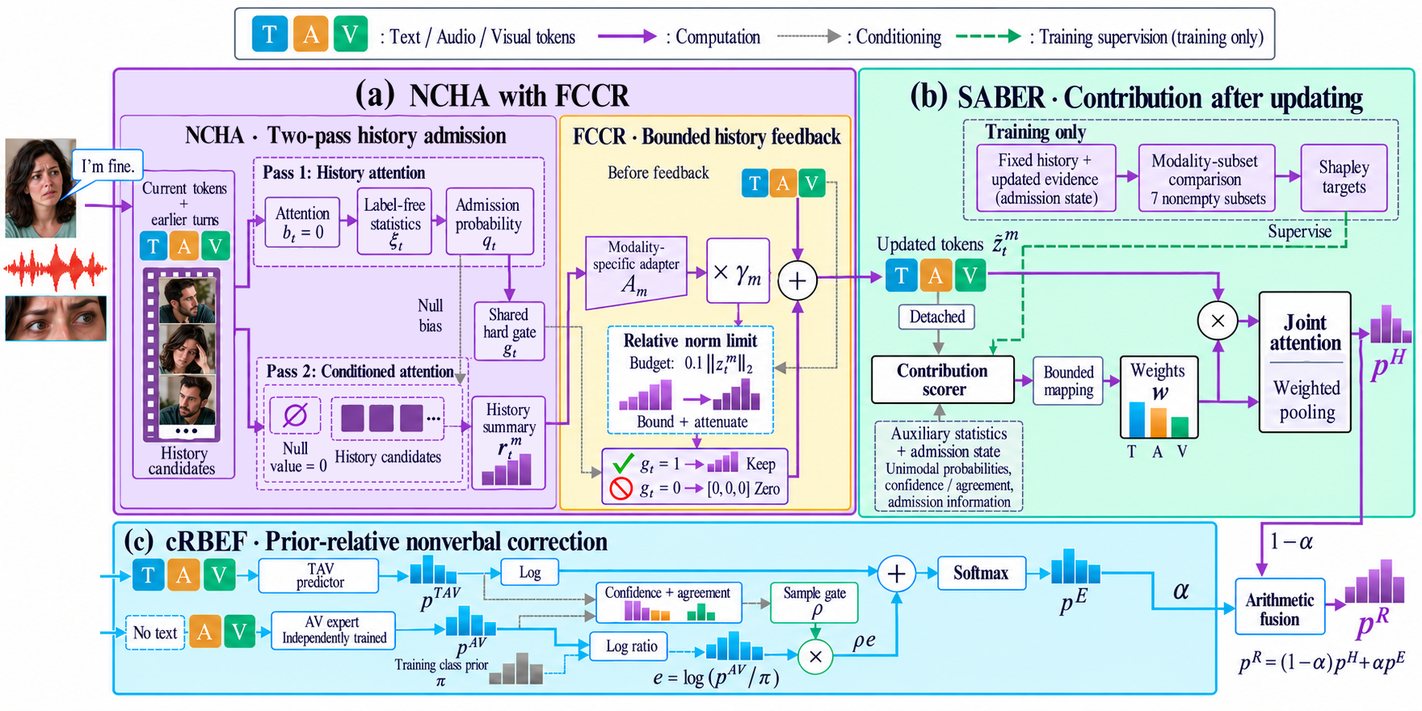
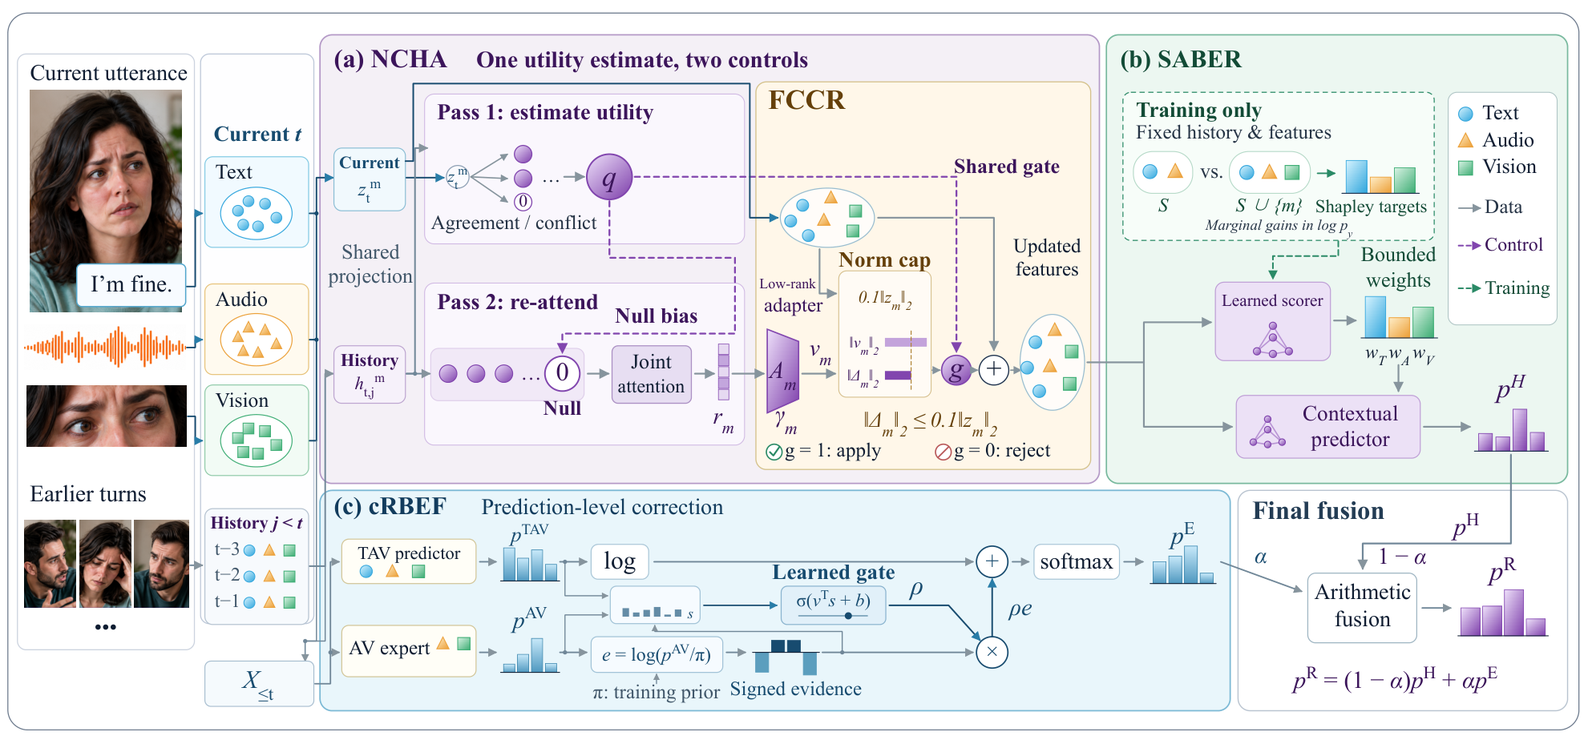
Align HMBR documentation and presets with the manuscript and fix audiovisual masking

diff --git a/recomer/correction.py b/recomer/correction.py
@@ -26,6 +26,15 @@ def correction_statistics(tav: Tensor, av: Tensor, prior: Tensor, eps: float = 1
                         -(tav * tav.clamp_min(eps).log()).sum(-1)), dim=-1)
 
 
+def _mask_gate(gate: Tensor, av_available: Tensor | None) -> Tensor:
+    if av_available is None:
+        return gate
+    available = torch.as_tensor(av_available, device=gate.device).reshape(-1)
+    if available.shape != gate.shape or ((available != 0) & (available != 1)).any():
+        raise ValueError("av_available must contain one binary value per utterance")
+    return gate * available.to(gate.dtype)
+
+
 def correct_predictions(tav_probabilities: Tensor, av_probabilities: Tensor,
                         class_prior: Tensor, gate: Tensor,
                         av_available: Tensor | None = None, eps: float = 1e-9) -> Tensor:
@@ -36,14 +45,10 @@ def correct_predictions(tav_probabilities: Tensor, av_probabilities: Tensor,
     """
     tav, av = tav_probabilities, av_probabilities
     correction_statistics(tav, av, class_prior, eps)
-    gate = torch.as_tensor(gate, device=tav.device, dtype=tav.dtype).reshape(-1, 1)
-    if gate.shape != (len(tav), 1) or not torch.isfinite(gate).all() or ((gate < 0) | (gate > 1)).any():
+    gate = torch.as_tensor(gate, device=tav.device, dtype=tav.dtype).reshape(-1)
+    if gate.shape != (len(tav),) or not torch.isfinite(gate).all() or ((gate < 0) | (gate > 1)).any():
         raise ValueError("gate must contain one value in [0,1] per utterance")
-    if av_available is not None:
-        availability = torch.as_tensor(av_available, device=tav.device).reshape(-1, 1)
-        if availability.shape != gate.shape or ((availability != 0) & (availability != 1)).any():
-            raise ValueError("av_available must be a binary [B] mask")
-        gate = gate * availability.to(tav.dtype)
+    gate = _mask_gate(gate, av_available)[:, None]
     evidence = (av + eps).log() - (class_prior + eps).log()
     corrected = ((tav + eps).log() + gate * evidence).softmax(-1)
     return torch.where(gate == 0, tav, corrected)
@@ -61,10 +66,8 @@ class PriorRelativeCorrection(nn.Module):
 
     def forward(self, tav: Tensor, av: Tensor, av_available: Tensor | None = None) -> dict[str, Tensor]:
         statistics = correction_statistics(tav, av, self.class_prior)
-        rho = self.gate(statistics).sigmoid().squeeze(-1)
-        if av_available is not None:
-            rho = rho * av_available.to(device=rho.device, dtype=rho.dtype)
-        return {"probabilities": correct_predictions(tav, av, self.class_prior, rho, av_available),
+        rho = _mask_gate(self.gate(statistics).sigmoid().squeeze(-1), av_available)
+        return {"probabilities": correct_predictions(tav, av, self.class_prior, rho),
                 "gate": rho, "statistics": statistics}
 
 

diff --git a/tests/recomer/test_method.py b/tests/recomer/test_method.py
@@ -168,9 +168,15 @@ def test_prior_relative_correction_and_arithmetic_fusion():
     torch.testing.assert_close(correct_predictions(tav, av, prior, gate, torch.zeros(2)), tav, rtol=0, atol=0)
     torch.testing.assert_close(correct_predictions(tav, prior.expand_as(tav), prior, gate), tav)
     torch.testing.assert_close(arithmetic_fusion(tav, actual, .3), .7 * tav + .3 * actual)
-    learned = PriorRelativeCorrection(prior)(tav, av, torch.tensor([1, 0]))
+    corrector = PriorRelativeCorrection(prior)
+    available = torch.tensor([1, 0])
+    learned = corrector(tav, av, available)
     assert learned["statistics"].shape == (2, 6)
     assert learned["gate"][1] == 0
+    column_mask = corrector(tav, av, available[:, None])
+    torch.testing.assert_close(column_mask["gate"], learned["gate"])
+    torch.testing.assert_close(column_mask["probabilities"], learned["probabilities"])
+    torch.testing.assert_close(column_mask["probabilities"][1], tav[1], rtol=0, atol=0)
 
 
 def test_output_composition_matches_formulas():

diff --git a/scripts/report_paper_results.py b/scripts/report_paper_results.py
@@ -6,14 +6,14 @@ import json
 def main():
     path = Path(__file__).resolve().parents[1] / "paper" / "results.json"
     data = json.loads(path.read_text(encoding="utf-8"))
-    print("ReCoMER | paper-reported performance (%)")
+    print("HMBR | paper-reported WF1 (%)")
     for row in data["main_results"]:
         values = ", ".join(f"{metric.upper()} {value:.2f}%" for metric, value in row["scores"].items())
         print(f"{row['dataset']}: {values} | {row['statistic']}")
-    print("\nSelected matched module gains (percentage-scale score differences)")
+    print("\nM3ED module ablations (Table 4, WF1 percentage points)")
     for row in data["mechanism_results"]:
         if row["component"] == "whole module":
-            print(f"{row['module']}: +{row['gain']:.3f}%")
+            print(f"{row['module']}: +{row['gain']:.3f} pp")
 
 
 if __name__ == "__main__":

diff --git a/recomer/__init__.py b/recomer/__init__.py
@@ -1,4 +1,4 @@
-"""ReCoMER: history admission, bounded feedback and contribution routing."""
+"""HMBR reference implementation for multimodal conversational emotion recognition."""
 from .config import ReCoMERConfig
 from .model import MODALITIES, FrozenContext, ReCoMERContextModel, limit_relative_norm
 from .shapley import exact_shapley, standardize_shapley, bounded_routing_weights

diff --git a/recomer/model.py b/recomer/model.py
@@ -1,4 +1,4 @@
-"""ReCoMER contextual reference model: NCHA -> FCCR -> SABER."""
+"""HMBR contextual reference model with NCHA, FCCR, and SABER."""
 from dataclasses import dataclass
 from collections.abc import Mapping
 import math

diff --git a/recomer/config.py b/recomer/config.py
@@ -1,4 +1,4 @@
-"""Configuration for the ReCoMER method reference implementation."""
+"""Configuration for the HMBR reference implementation."""
 from dataclasses import asdict, dataclass
 from typing import Any
 

diff --git a/scripts/demo_recomer.py b/scripts/demo_recomer.py
@@ -1,4 +1,4 @@
-"""Exercise ReCoMER with synthetic inputs; this is not a benchmark run."""
+"""Run the HMBR reference model on synthetic inputs."""
 from pathlib import Path
 import argparse
 import json

diff --git a/README.md b/README.md
@@ -1,33 +1,35 @@
-# ReCoMER
+# HMBR
 
-**Reliability and Context Modeling to Mitigate Biases in Multimodal Conversational Emotion Recognition**
+**Historical and Modal Bias Reassessment Mitigation for Multimodal Conversational Emotion Recognition**
 
-[Paper](paper/ReCoMER.pdf) · [中文说明](README.zh-CN.md) · [Method & data interface](paper/IMPLEMENTATION.md) · [Reported results](paper/results.json)
+[HMBR paper (PDF)](paper/ReCoMER.pdf) · [中文说明](README.zh-CN.md) · [Implementation and data interface](paper/IMPLEMENTATION.md) · [Reported results](paper/results.json)
 
-ReCoMER coordinates **which history to admit**, **how strongly it updates current evidence**, and **how modality contributions are estimated after that update**. A complementary audio-visual prediction path supplies prior-relative nonverbal evidence at the decision level.
+HMBR predicts the emotion of a conversational utterance from text, audio and visual features. It estimates whether earlier turns help interpret the current utterance, limits how much they can change its representation, and then weights each modality by its estimated contribution. A separate audiovisual expert refines the prediction when nonverbal cues provide complementary evidence.
 
-![ReCoMER architecture](paper/figures/overview.png)
+![HMBR architecture on M3ED, Figure 2 of the paper](paper/figures/overview.png)
 
-## Paper-reported performance
+## Results
 
-| Dataset | WF1 (%) | ACC (%) | Summary |
-|---|---:|---:|---|
-| M3ED | **62.07** | — | +7.02% over the listed MF-EDM result |
-| IEMOCAP | **78.53** | — | Three-run mean; sample SD 0.04% |
-| EmotionTalk | **72.03** | **72.52** | ACC +1.29% over the listed LMF result |
+Tables 1–3 report support-weighted F1 (WF1) on three datasets.
 
-Performance gains denote differences between percentage-scale scores. The results follow the evaluation protocols in the linked manuscript; the IEMOCAP figure is a mean, while M3ED and EmotionTalk report individual runs. EmotionTalk WF1 is labeled separately from the literature's source F1 metric.
+| Dataset | HMBR WF1 (%) | Evaluation |
+|---|---:|---|
+| M3ED | **62.07** | Single run, official TV-series split |
+| IEMOCAP | **78.53** | Mean of three runs, Session 5 held out |
+| EmotionTalk | **72.03** | Single run, speaker-independent split |
 
-## Method highlights
+## Method
 
-- **NCHA — conditional history admission.** A preliminary history reading informs the second round of null-candidate competition and a shared admission decision.
-- **FCCR — bounded historical feedback.** Modality-specific residual adapters refine current representations within a relative norm budget.
-- **SABER — contribution routing after updating.** Fixed-state Shapley supervision connects updated evidence to bounded modality weights. Inference uses a single scorer pass.
-- **cRBEF — prior-relative nonverbal correction.** A separately trained AV expert supplies class-wise evidence, an utterance-level gate controls correction strength, and arithmetic fusion combines complete predictions.
+- **NCHA** estimates whether earlier turns are useful. This estimate controls competition with a no-history option and a gate that admits or rejects historical feedback.
+- **FCCR** learns a correction for each modality and bounds its norm relative to the current representation.
+- **SABER** estimates each modality’s contribution after the history update. A scorer learns from Shapley targets during training and predicts bounded routing weights at inference.
+- **cRBEF** compares an audiovisual expert’s predictions with the training class prior. A gate controls the strength of this correction before the expert and contextual predictions are combined.
 
-The manuscript's selected matched component gains are **NCHA +2.913%**, **FCCR +3.290%**, **SABER +1.902%**, and **cRBEF +7.478%**. Each describes its own matched comparison; these effects are not added together. All 18 mechanism results and their interpretation are available in [the result record](paper/results.json) and the paper.
+On M3ED, Table 4 reports WF1 gains of 2.913 percentage points for NCHA, 3.290 for FCCR, 1.902 for SABER and 7.478 for cRBEF. Tables 5–8 report 14 comparisons of their internal mechanisms. Section 4.3 describes the variants used for each comparison. [Ablation results](paper/results.json)
 
 ## Quick start
+
+Use Python 3.10 or later. The GitHub repository retains its original name, `ReCoMER`. Import the reference implementation as `recomer`.
 
 ```bash
 git clone https://github.com/China-hanwudi/ReCoMER.git
@@ -38,39 +40,37 @@ python -m pytest tests/recomer -q
 python scripts/report_paper_results.py
 ```
 
-The demo uses synthetic feature tensors to exercise the full prediction composition on CPU. The Python package is a readable reference implementation of the manuscript's core mechanisms. The performance table above records the manuscript experiments, rather than a score produced by the synthetic demo.
+The demo runs the contextual predictor and audiovisual correction on synthetic feature tensors on CPU. The results script prints the values recorded from the paper.
+
+For M3ED features, the contextual predictor accepts text, audio and visual vectors of 2,560, 2,048 and 342 dimensions, respectively. This example runs one forward pass with synthetic features for the current utterance and three earlier turns.
 
 ```python
+import torch
 from recomer import ReCoMERConfig, ReCoMERContextModel
 
-config = ReCoMERConfig(input_dims=(768, 1024, 342), num_classes=7)
-model = ReCoMERContextModel(config)
-output = model(current, history, modality_mask=present, history_mask=valid_history)
-probabilities = output["probabilities"]
+config = ReCoMERConfig(input_dims=(2560, 2048, 342), num_classes=7, dropout=0.25)
+model = ReCoMERContextModel(config).eval()
+dims = dict(zip(("text", "audio", "vision"), config.input_dims))
+current = {name: torch.randn(1, dim) for name, dim in dims.items()}
+history = {name: torch.randn(1, 3, dim) for name, dim in dims.items()}
+with torch.no_grad():
+    context_probabilities = model(current, history)["probabilities"]
 ```
 
-Feature dimensions should match your own packed features. See [the input schema](paper/IMPLEMENTATION.md) for masks, speaker relations, training objectives, frozen prediction composition, and dataset presets.
+The [input schema](paper/IMPLEMENTATION.md) describes tensor shapes, masks, speaker relations, training objectives and how to combine the contextual output with the expert predictions.
 
 ## Repository layout
 
-```text
-recomer/                    PyTorch modules and prediction composition
-tests/recomer/              CPU mechanism tests
-scripts/demo_recomer.py     Synthetic forward and correction example
-scripts/report_paper_results.py
-configs/dataset_presets.json
-paper/ReCoMER.pdf           Manuscript supplied for this release
-paper/figures/overview.png  Original architecture figure extracted from the paper
-paper/results.json         Paper-reported aggregate results
-paper/IMPLEMENTATION.md     Interfaces and evaluation protocols
-```
+| Path | Contents |
+|---|---|
+| [recomer/](recomer/) | PyTorch reference implementation |
+| [configs/dataset_presets.json](configs/dataset_presets.json) | Dataset-specific model settings |
+| [scripts/demo_recomer.py](scripts/demo_recomer.py) | Runnable synthetic example |
+| [tests/recomer/](tests/recomer/) | CPU tests for the model components |
+| [paper/](paper/) | HMBR manuscript, architecture figure, results and implementation notes |
 
-The existing TemporalN3 and `ReCoMER_paper_20261006/` directories remain available as earlier research versions. The current ReCoMER entry point is the package and manuscript linked above. Repository history and existing data remain intact.
-
-## Efficiency
-
-The manuscript reports **13.121M parameters** and **1.401 ms per utterance** on an RTX 5090. NCHA, FCCR, and SABER jointly add **0.086M parameters (0.66%)**. Timing uses the median of five post-warmup runs on eight development dialogues (187 utterances), including expert computation and excluding feature extraction, transfers, and model loading.
+Earlier research materials are available in [temporal_n3/](temporal_n3/) and [ReCoMER_paper_20261006/](ReCoMER_paper_20261006/).
 
 ## Citation and license
 
-The manuscript title and BibTeX entry are in [CITATION.bib](CITATION.bib). Repository-owned code is distributed under the existing [MIT license](LICENSE). Obtain datasets and pretrained feature extractors from their original providers under their own terms.
+Use the [BibTeX entry](CITATION.bib) to cite the manuscript. Repository-owned code is distributed under the [MIT license](LICENSE). Datasets and pretrained feature extractors are available from their original providers under their respective terms.

diff --git a/paper/IMPLEMENTATION.md b/paper/IMPLEMENTATION.md
@@ -1,6 +1,6 @@
 # Method implementation and data interface
 
-This release pairs the manuscript with an inspectable PyTorch reference implementation of its core mechanisms. `paper/results.json` contains the manuscript's reported measurements. Model defaults are usable reference values; they are not a declaration of every hidden setting of an archived training run.
+The PyTorch package exposes HMBR's contextual predictor and prediction correction. The [manuscript](ReCoMER.pdf) describes the model and the [result record](results.json) lists the scores in Tables 1–8. The `recomer` package retains the original public API names.
 
 ## Inputs
 
@@ -13,7 +13,7 @@ This release pairs the manuscript with an inspectable PyTorch reference implemen
 - `relative_positions`: optional `[B, H]` positive distances to completed preceding utterances. Zero, future/nonpositive, and out-of-window positions are excluded.
 - `speaker_relations`: optional binary `[B, H]` relation indicators.
 
-Keep utterance identifiers and class order aligned across contextual, TAV, and AV prediction banks. Build history separately within each conversation, using only completed earlier turns. The dataset-specific mechanism paths appear in `configs/dataset_presets.json`; set feature dimensions from your own data.
+Keep utterance identifiers and class order aligned across contextual, TAV, and AV prediction banks. Build history separately within each conversation, using only completed earlier turns. The [dataset presets](../configs/dataset_presets.json) specify the contextual path for each benchmark. Set the three input dimensions to match the features you supply.
 
 ## Forward path
 
@@ -35,16 +35,22 @@ For M3ED, history enters through current-token feedback and routing acts at toke
 
 `PriorRelativeCorrection` consumes independent TAV and text-free AV probabilities and a training class prior. Its six-statistic gate scales the prior-relative AV log evidence. `arithmetic_fusion` then combines the corrected and contextual posteriors with the fixed `alpha` for that configuration. The sample gate `rho` and outer mixture `alpha` have different roles.
 
-`emotiontalk_output` additionally implements the manuscript's final temperature transformation and TAV-head combination. Pass the corresponding independent head posterior, using the reported temperature 3 and mixing coefficient 0.85.
+The reference implementation also provides `emotiontalk_output` for the earlier EmotionTalk configuration. It accepts the fused probabilities and an independent TAV-head posterior, with default temperature 3 and mixing coefficient 0.85. The [prior implementation notes](https://github.com/China-hanwudi/ReCoMER/blob/0d262831d7bb78bdea2307a2c7eefda89470c51c/paper/IMPLEMENTATION.md) document these settings.
 
 Training features, trained contextual/TAV/AV weights, frozen mappings, and fitted gates should be supplied as their own aligned experiment artifacts. The synthetic demo shows the interfaces with generated tensors; it does not substitute for those fitted artifacts.
 
-## Evaluation protocols
+## Reported experimental setup
 
-- **M3ED:** official television-source split; reported WF1 62.07.
-- **IEMOCAP:** Session 5 held out, happy and excited retained separately; reported WF1 78.53 is a three-run mean with sample SD 0.04.
-- **EmotionTalk:** G01/G12 for development and G03/G15 for testing; reported ACC 72.52 and WF1 72.03.
+All three datasets use up to three utterances that ended before the target began. The contextual predictor uses a 192-dimensional representation, two Transformer layers with six heads each, rank-32 feedback adapters, and a relative-norm budget of 0.1. The optimizer is AdamW with batch size 128 and weight decay 0.01.
 
-The manuscript records test-informed configuration exploration for M3ED and EmotionTalk. The reported mechanism rows are selected matched effects under row-specific conditions. For new model development, fit on training/development partitions and keep the final evaluation distinct.
+| Dataset | Evaluation split | Features and training settings reported in Section 4.1 | HMBR WF1 |
+| --- | --- | --- | --- |
+| M3ED | Official TV-series split | Qwen text (2,560), HuBERT audio (2,048), visual features (342). Up to 45 epochs, learning rate 0.00015, five warmup epochs, dropout 0.25. | 62.07% (one run) |
+| IEMOCAP | Session 5 held out, six classes with happy and excited kept separate | Up to 35 epochs, learning rate 0.0001, two warmup epochs, dropout 0.15. | 78.53% (mean of three runs, SD 0.04 percentage points) |
+| EmotionTalk | Seven-class multimodal labels, G01/G12 for validation and G03/G15 for testing | Frozen Qwen3-8B-AWQ text (4,096), Chinese HuBERT-base audio (768), CLIP ViT-L/14 vision (768). | 72.03% (one run) |
+
+WF1 is F1 weighted by class support. Table 4 gives module comparisons on M3ED. Tables 5–8 give mechanism comparisons within each module. Gains are absolute WF1 differences in percentage points. Section 4.3 reports the maximum observed gain for the three contextual modules and for each individual mechanism.
+
+The [prior experiment record](https://github.com/China-hanwudi/ReCoMER/blob/0d262831d7bb78bdea2307a2c7eefda89470c51c/paper/IMPLEMENTATION.md) documents test-informed configuration exploration for the M3ED and EmotionTalk runs that reported the same scores. The [archived measurements](https://github.com/China-hanwudi/ReCoMER/blob/0d262831d7bb78bdea2307a2c7eefda89470c51c/paper/results.json) include the earlier accuracy, timing and full-configuration removal results.
 
 The MIT license applies to repository-owned code. Download datasets, source features, and pretrained extractors from their original providers. Keep their licenses, class ordering, splits, and artifact provenance with each run.

diff --git a/README.zh-CN.md b/README.zh-CN.md
@@ -1,33 +1,35 @@
-# ReCoMER
+# HMBR
 
-**通过可靠性与上下文建模缓解多模态对话情感识别中的偏差**
+**Historical and Modal Bias Reassessment Mitigation for Multimodal Conversational Emotion Recognition**
 
-[English](README.md) · [论文 PDF](paper/ReCoMER.pdf) · [方法与输入接口](paper/IMPLEMENTATION.md) · [论文结果](paper/results.json)
+[English](README.md) · [HMBR 论文（PDF）](paper/ReCoMER.pdf) · [实现与数据接口](paper/IMPLEMENTATION.md) · [实验结果](paper/results.json)
 
-ReCoMER 将历史准入、有界历史反馈与更新后的模态贡献估计相衔接，并通过独立的音视频预测路径提供先验相对的非语言证据。
+HMBR 根据文本、音频和视觉特征识别当前话语的情感。模型先判断先前话轮能否帮助理解当前话语，限制历史信息对当前表示的影响，再根据各模态在当前语境中的贡献分配权重。独立的音视频专家利用非语言线索进一步校正预测。
 
-![ReCoMER 方法框架](paper/figures/overview.png)
+![论文图 2，HMBR 在 M3ED 上的模型结构](paper/figures/overview.png)
 
-## 论文主结果
+## 实验结果
 
-| 数据集 | WF1（%） | ACC（%） | 说明 |
-|---|---:|---:|---|
-| M3ED | **62.07** | — | 相对表中 MF-EDM 的 WF1 增益为 7.02% |
-| IEMOCAP | **78.53** | — | 三次运行均值，样本标准差 0.04% |
-| EmotionTalk | **72.03** | **72.52** | 相对表中 LMF 的 ACC 增益为 1.29% |
+论文表 1–3 报告三个数据集上的加权 F1（WF1），计算时按各类别的样本数加权。
 
-性能增益表示百分制得分的差值。结果遵循论文中的评估协议；M3ED、EmotionTalk 报告单次结果，IEMOCAP 报告多次均值。EmotionTalk 的本文 WF1 与文献来源的 F1 分别标明。
+| 数据集 | HMBR WF1（%） | 评估方式 |
+|---|---:|---|
+| M3ED | **62.07** | 单次运行，采用官方按电视剧划分的数据集 |
+| IEMOCAP | **78.53** | 三次运行均值，使用 Session 5 测试 |
+| EmotionTalk | **72.03** | 单次运行，采用说话人独立划分 |
 
-## 四个模块
+## 模型方法
 
-- **NCHA：条件化历史准入。** 首轮历史读取提供准入估计，随后调节第二轮空候选竞争，并控制共享准入决定。
-- **FCCR：有界历史反馈。** 模态专属残差适配器在相对范数预算内重评当前表示。
-- **SABER：更新后的贡献路由。** 固定历史状态下的 Shapley 监督引导有界模态权重，推理仅需一次评分。
-- **cRBEF：先验相对非语言校正。** 独立 AV 专家提供类别证据，语句级门控调节强度，算术融合组合完整预测。
+- **NCHA** 估计先前话轮是否有助于理解当前话语。模型据此调整历史话轮与空候选的竞争，并通过门控决定是否引入历史反馈。
+- **FCCR** 为每种模态学习校正量，并根据当前表示的范数限制校正幅度。
+- **SABER** 在历史更新后估计各模态的贡献。训练时使用 Shapley 目标监督评分器，推理时由评分器直接给出有界的模态权重。
+- **cRBEF** 对比音视频专家的预测与训练集类别先验，用门控调节校正强度，再融合专家分支和上下文分支的预测。
 
-论文所选匹配比较中的增益分别为 **NCHA +2.913%、FCCR +3.290%、SABER +1.902%、cRBEF +7.478%**。各项对应各自的比较条件，不能相加；完整的 18 项机制结果见[结果记录](paper/results.json)。
+表 4 报告 M3ED 上四个模块的 WF1 增益，单位为百分点。NCHA 为 +2.913，FCCR 为 +3.290，SABER 为 +1.902，cRBEF 为 +7.478。表 5–8 报告 14 项模块内部机制对比，第 4.3 节说明各项比较使用的模型变体。[消融实验结果](paper/results.json)
 
-## 使用
+## 快速开始
+
+需要 Python 3.10 或更高版本。仓库沿用名称 `ReCoMER`，Python 包的导入路径为 `recomer`。
 
 ```bash
 git clone https://github.com/China-hanwudi/ReCoMER.git
@@ -38,10 +40,10 @@ python -m pytest tests/recomer -q
 python scripts/report_paper_results.py
 ```
 
-当前 Python 包提供论文核心机制的清晰参考实现。示例使用合成特征在 CPU 上验证预测流程；主结果表来自论文实验。特征维度、类别顺序及冻结预测参数应与自己的实际数据和训练产物匹配，接口说明见 [IMPLEMENTATION.md](paper/IMPLEMENTATION.md)。
+示例在 CPU 上使用合成特征运行上下文预测与音视频校正。结果脚本读取并打印论文报告的数值。M3ED 使用 2,560 维文本、2,048 维音频和 342 维视觉特征。输入张量形状、可用性掩码、训练目标和预测融合方式见[实现说明](paper/IMPLEMENTATION.md)。
 
-## 效率
+早期研究材料位于 [temporal_n3/](temporal_n3/) 和 [ReCoMER_paper_20261006/](ReCoMER_paper_20261006/)。
 
-论文报告完整模型 **13.121M 参数**，RTX 5090 上每条语句 **1.401 ms**。NCHA、FCCR、SABER 合计增加 **0.086M 参数（0.66%）**。计时为八段开发集对话、187 条语句的预热后五次中位数，包含专家计算，不含特征提取、传输与加载。
+## 引用与许可
 
-旧 TemporalN3 与早期论文目录保留，当前入口以本页链接的 ReCoMER 包和论文为准。原有提交历史和数据保留。自有代码沿用 [MIT 许可证](LICENSE)，数据与第三方模型遵循各自来源的使用条件。
+引用论文可使用 [BibTeX 条目](CITATION.bib)。仓库自有代码采用 [MIT 许可证](LICENSE)，数据集和预训练特征提取器的使用条件以各自提供方为准。

diff --git a/DATA_BOUNDARY.md b/DATA_BOUNDARY.md
@@ -1,9 +1,6 @@
-> 2026-10-29: 当前 ReCoMER 论文、方法参考实现及使用入口见 [README](README.md) 与 [paper/IMPLEMENTATION.md](paper/IMPLEMENTATION.md)。下文保留早期研究版本的数据边界记录。
-
 # 数据与发布边界（科研协作版）
 
-> **2026-10-06 二次注记：** 仓库最新状态见根目录 README 顶部与 progress.md 的 2026-10-06 条目（当前主线为 ReCoMER 论文，ReCoMER_paper_20261006/）。本文及本目录其余文档为 2026-08 时期历史记录。
->
+本文记录早期项目的数据使用范围与许可。HMBR 的输入和评估协议见[实现说明](paper/IMPLEMENTATION.md)。
 
 最后修订：2026-08-09
 

diff --git a/paper/figures/README.md b/paper/figures/README.md
@@ -1,5 +1,3 @@
-# Architecture figure
+# HMBR architecture
 
-`overview.png` is the original architecture image extracted from `../ReCoMER.pdf`, without redrawing or changing its contents.
-
-It shows NCHA with FCCR, SABER contribution routing after updating, and cRBEF prior-relative prediction correction.
+[`overview.png`](overview.png) reproduces the architecture diagram in Figure 2 of the [HMBR manuscript](../ReCoMER.pdf), on page 4. The diagram shows how NCHA and FCCR control the history update, SABER weights the updated modality representations, and cRBEF combines the contextual prediction with evidence from a separate audiovisual expert.
